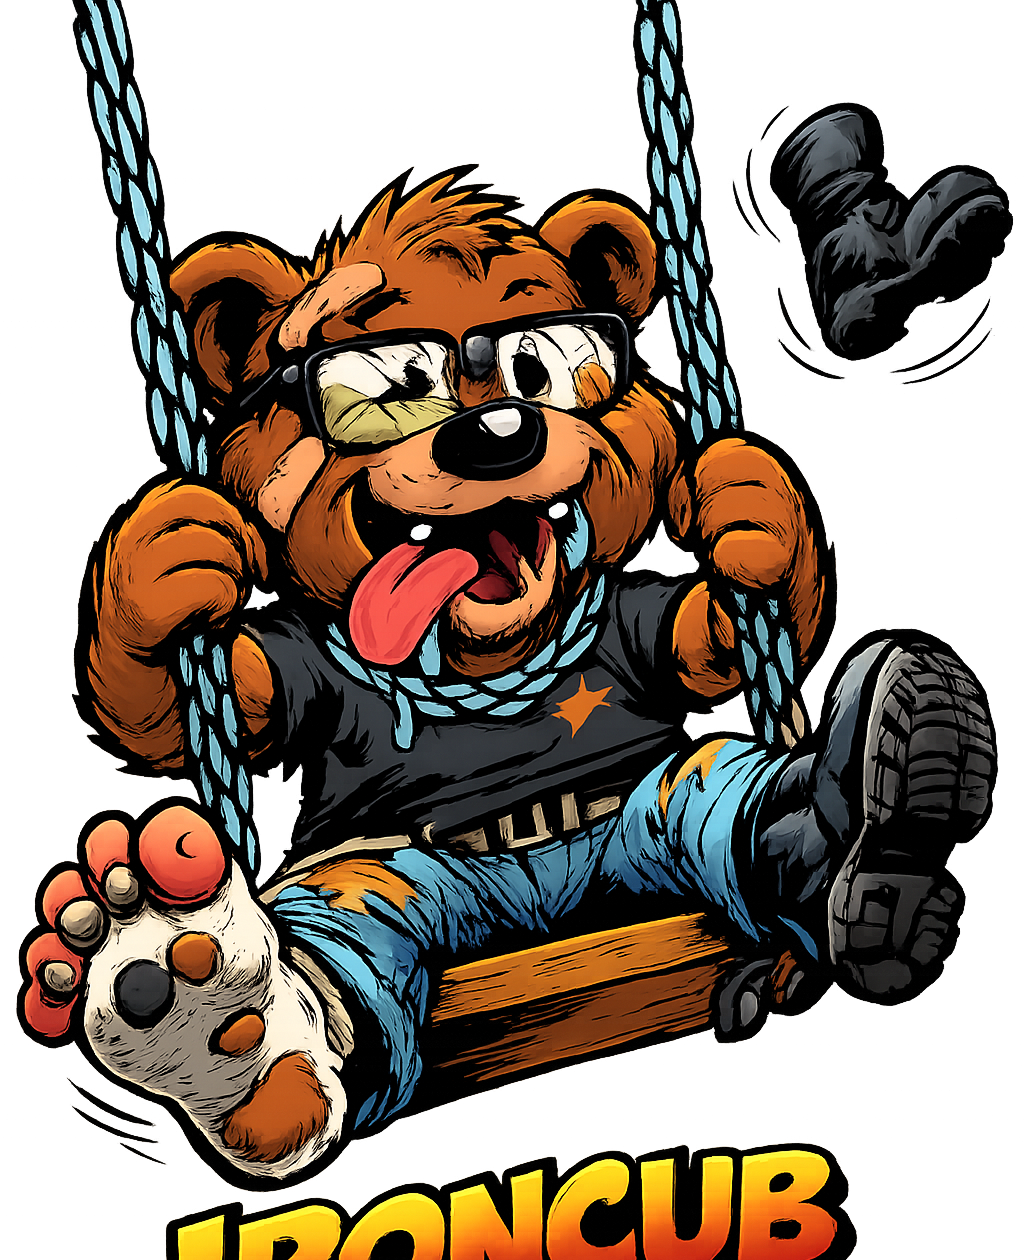
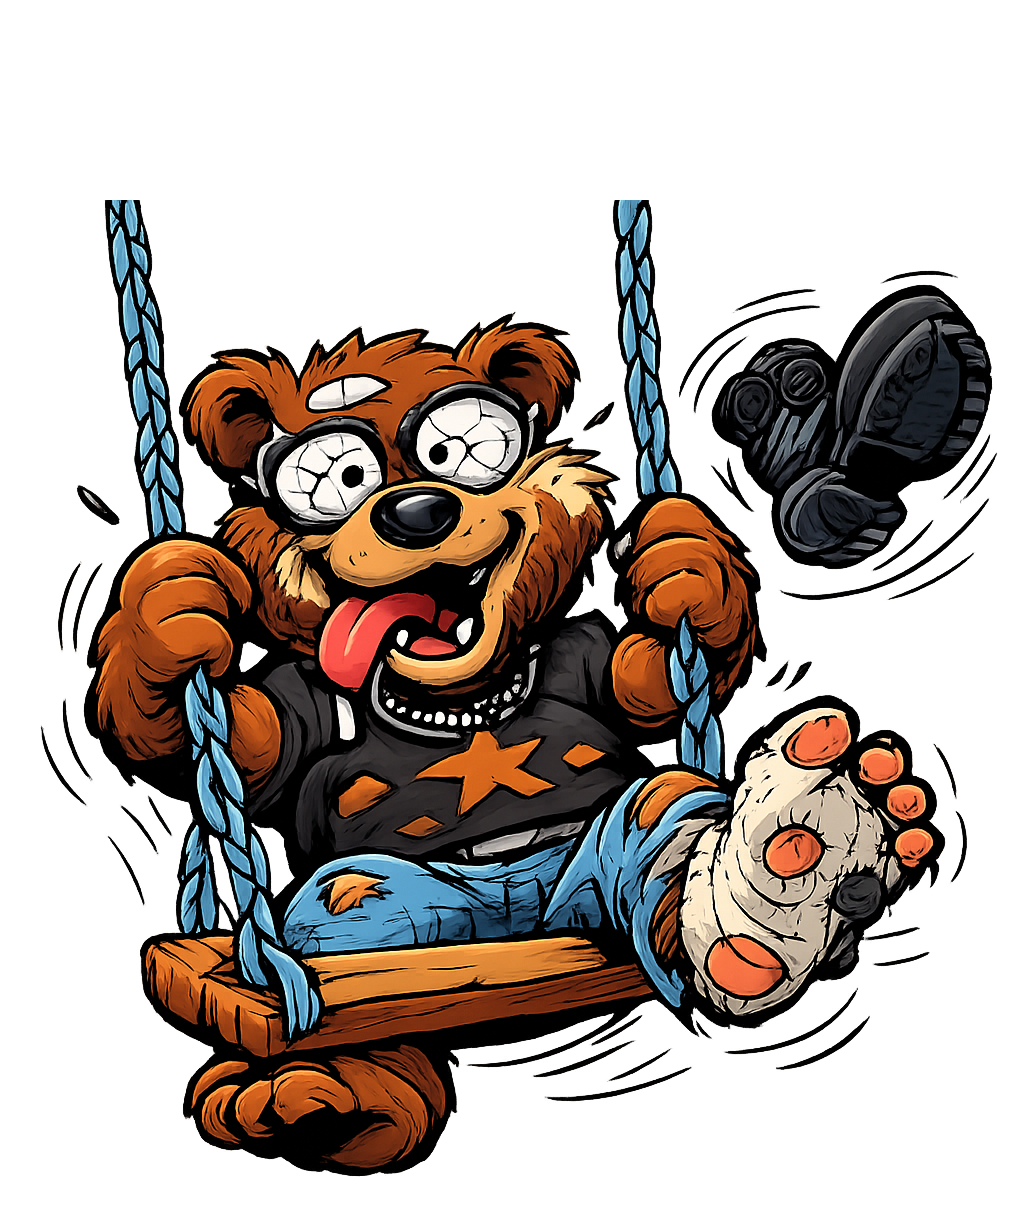
Swing beer v3: linkervoet bloot, geen tekst, kettingen lopen door naar sectie erboven

diff --git a/styles.css b/styles.css
@@ -506,9 +506,9 @@ ul{list-style:none}
 @media(max-width:768px){.bear-peek-fixed{width:80px;right:10px}.bear-wallbreak-img{width:140px;right:-20px}.bear-cta-img{width:100px}.bear-side-float{display:none}}
 
 /* BEAR SWING */
-.bear-swing-section{padding:40px 0;overflow:hidden;position:relative}
+.bear-swing-section{padding:0 0 40px;overflow:visible;position:relative;margin-top:-40px}
 .bear-swing-wrap{display:flex;justify-content:center;transform-origin:top center;animation:swingBear 4s ease-in-out infinite}
-.bear-swing-wrap img{width:280px;filter:drop-shadow(0 20px 40px rgba(0,0,0,.2));transition:transform .3s}
+.bear-swing-wrap img{width:320px;filter:drop-shadow(0 20px 40px rgba(0,0,0,.3));transition:transform .3s}
 .bear-swing-wrap:hover img{transform:scale(1.05)}
 @keyframes swingBear{0%{transform:rotate(-12deg)}50%{transform:rotate(12deg)}100%{transform:rotate(-12deg)}}
 @media(max-width:768px){.bear-swing-wrap img{width:180px}}
